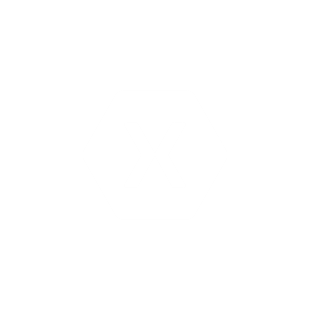
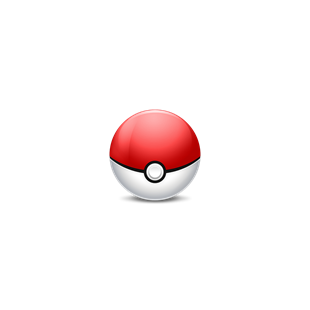
Adição de Ícones e Nomes

Changed region(s): [[0.3484, 0.3484, 0.6677, 0.6677]]

diff --git a/Desafio_DBServer/Desafio_DBServer/Views/ListPokemonView.xaml b/Desafio_DBServer/Desafio_DBServer/Views/ListPokemonView.xaml
@@ -167,7 +167,7 @@
                             <Frame 
                                 Grid.Row="0"
                                 HorizontalOptions="FillAndExpand"
-                                CornerRadius="70"
+                                CornerRadius="50"
                                 HasShadow="True"
                                 BackgroundColor="#5c5959"
                                 Padding="0"

diff --git a/Desafio_DBServer/Desafio_DBServer/ViewModels/PokemonViewModel.cs b/Desafio_DBServer/Desafio_DBServer/ViewModels/PokemonViewModel.cs
@@ -239,14 +239,13 @@ namespace Desafio_DBServer.ViewModels
 
                 if (SimplePokemon.Favorite)
                 {
-                    if (ContainerHelper.DataBaseService.GetData_PK<DbFavorite>(SimplePokemon.Id) == null)
-                    {
-                        var favorite = new DbFavorite(SimplePokemon.Id);
+                    var favorite = new DbFavorite(SimplePokemon.Id);
+                    var dbFav = ContainerHelper.DataBaseService.GetData_PK<DbFavorite>(SimplePokemon.Id);
+                    if (dbFav == null)
                         favorite.Insert(ContainerHelper.DataBaseService);
 
-                        if (ContainerHelper.Favorites.Any(f => f.Id == SimplePokemon.Id) == false)
-                            ContainerHelper.Favorites.Add(favorite);
-                    }
+                    if (ContainerHelper.Favorites.Any(f => f.Id == SimplePokemon.Id) == false)
+                        ContainerHelper.Favorites.Add(favorite);
                 }
                 else
                 {

diff --git a/Desafio_DBServer/Desafio_DBServer.Android/MainActivity.cs b/Desafio_DBServer/Desafio_DBServer.Android/MainActivity.cs
@@ -10,7 +10,7 @@ using System;
 
 namespace Desafio_DBServer.Droid
 {
-    [Activity(Label = "Desafio_DBServer", Icon = "@mipmap/icon", Theme = "@style/MainTheme", MainLauncher = true, ConfigurationChanges = ConfigChanges.ScreenSize | ConfigChanges.Orientation)]
+    [Activity(Label = "Desafio DBServer", Icon = "@drawable/PokeBall", Theme = "@style/MainTheme", MainLauncher = true, ConfigurationChanges = ConfigChanges.ScreenSize | ConfigChanges.Orientation)]
     public class MainActivity : global::Xamarin.Forms.Platform.Android.FormsAppCompatActivity
     {
         protected override void OnCreate(Bundle savedInstanceState)

diff --git a/Desafio_DBServer/Desafio_DBServer.Android/Resources/Resource.designer.cs b/Desafio_DBServer/Desafio_DBServer.Android/Resources/Resource.designer.cs
@@ -10953,10 +10953,13 @@ namespace Desafio_DBServer.Droid
 			public const int notify_panel_notification_icon_bg = 2131165299;
 			
 			// aapt resource value: 0x7F070074
-			public const int tooltip_frame_dark = 2131165300;
+			public const int PokeBall = 2131165300;
 			
 			// aapt resource value: 0x7F070075
-			public const int tooltip_frame_light = 2131165301;
+			public const int tooltip_frame_dark = 2131165301;
+			
+			// aapt resource value: 0x7F070076
+			public const int tooltip_frame_light = 2131165302;
 			
 			static Drawable()
 			{
